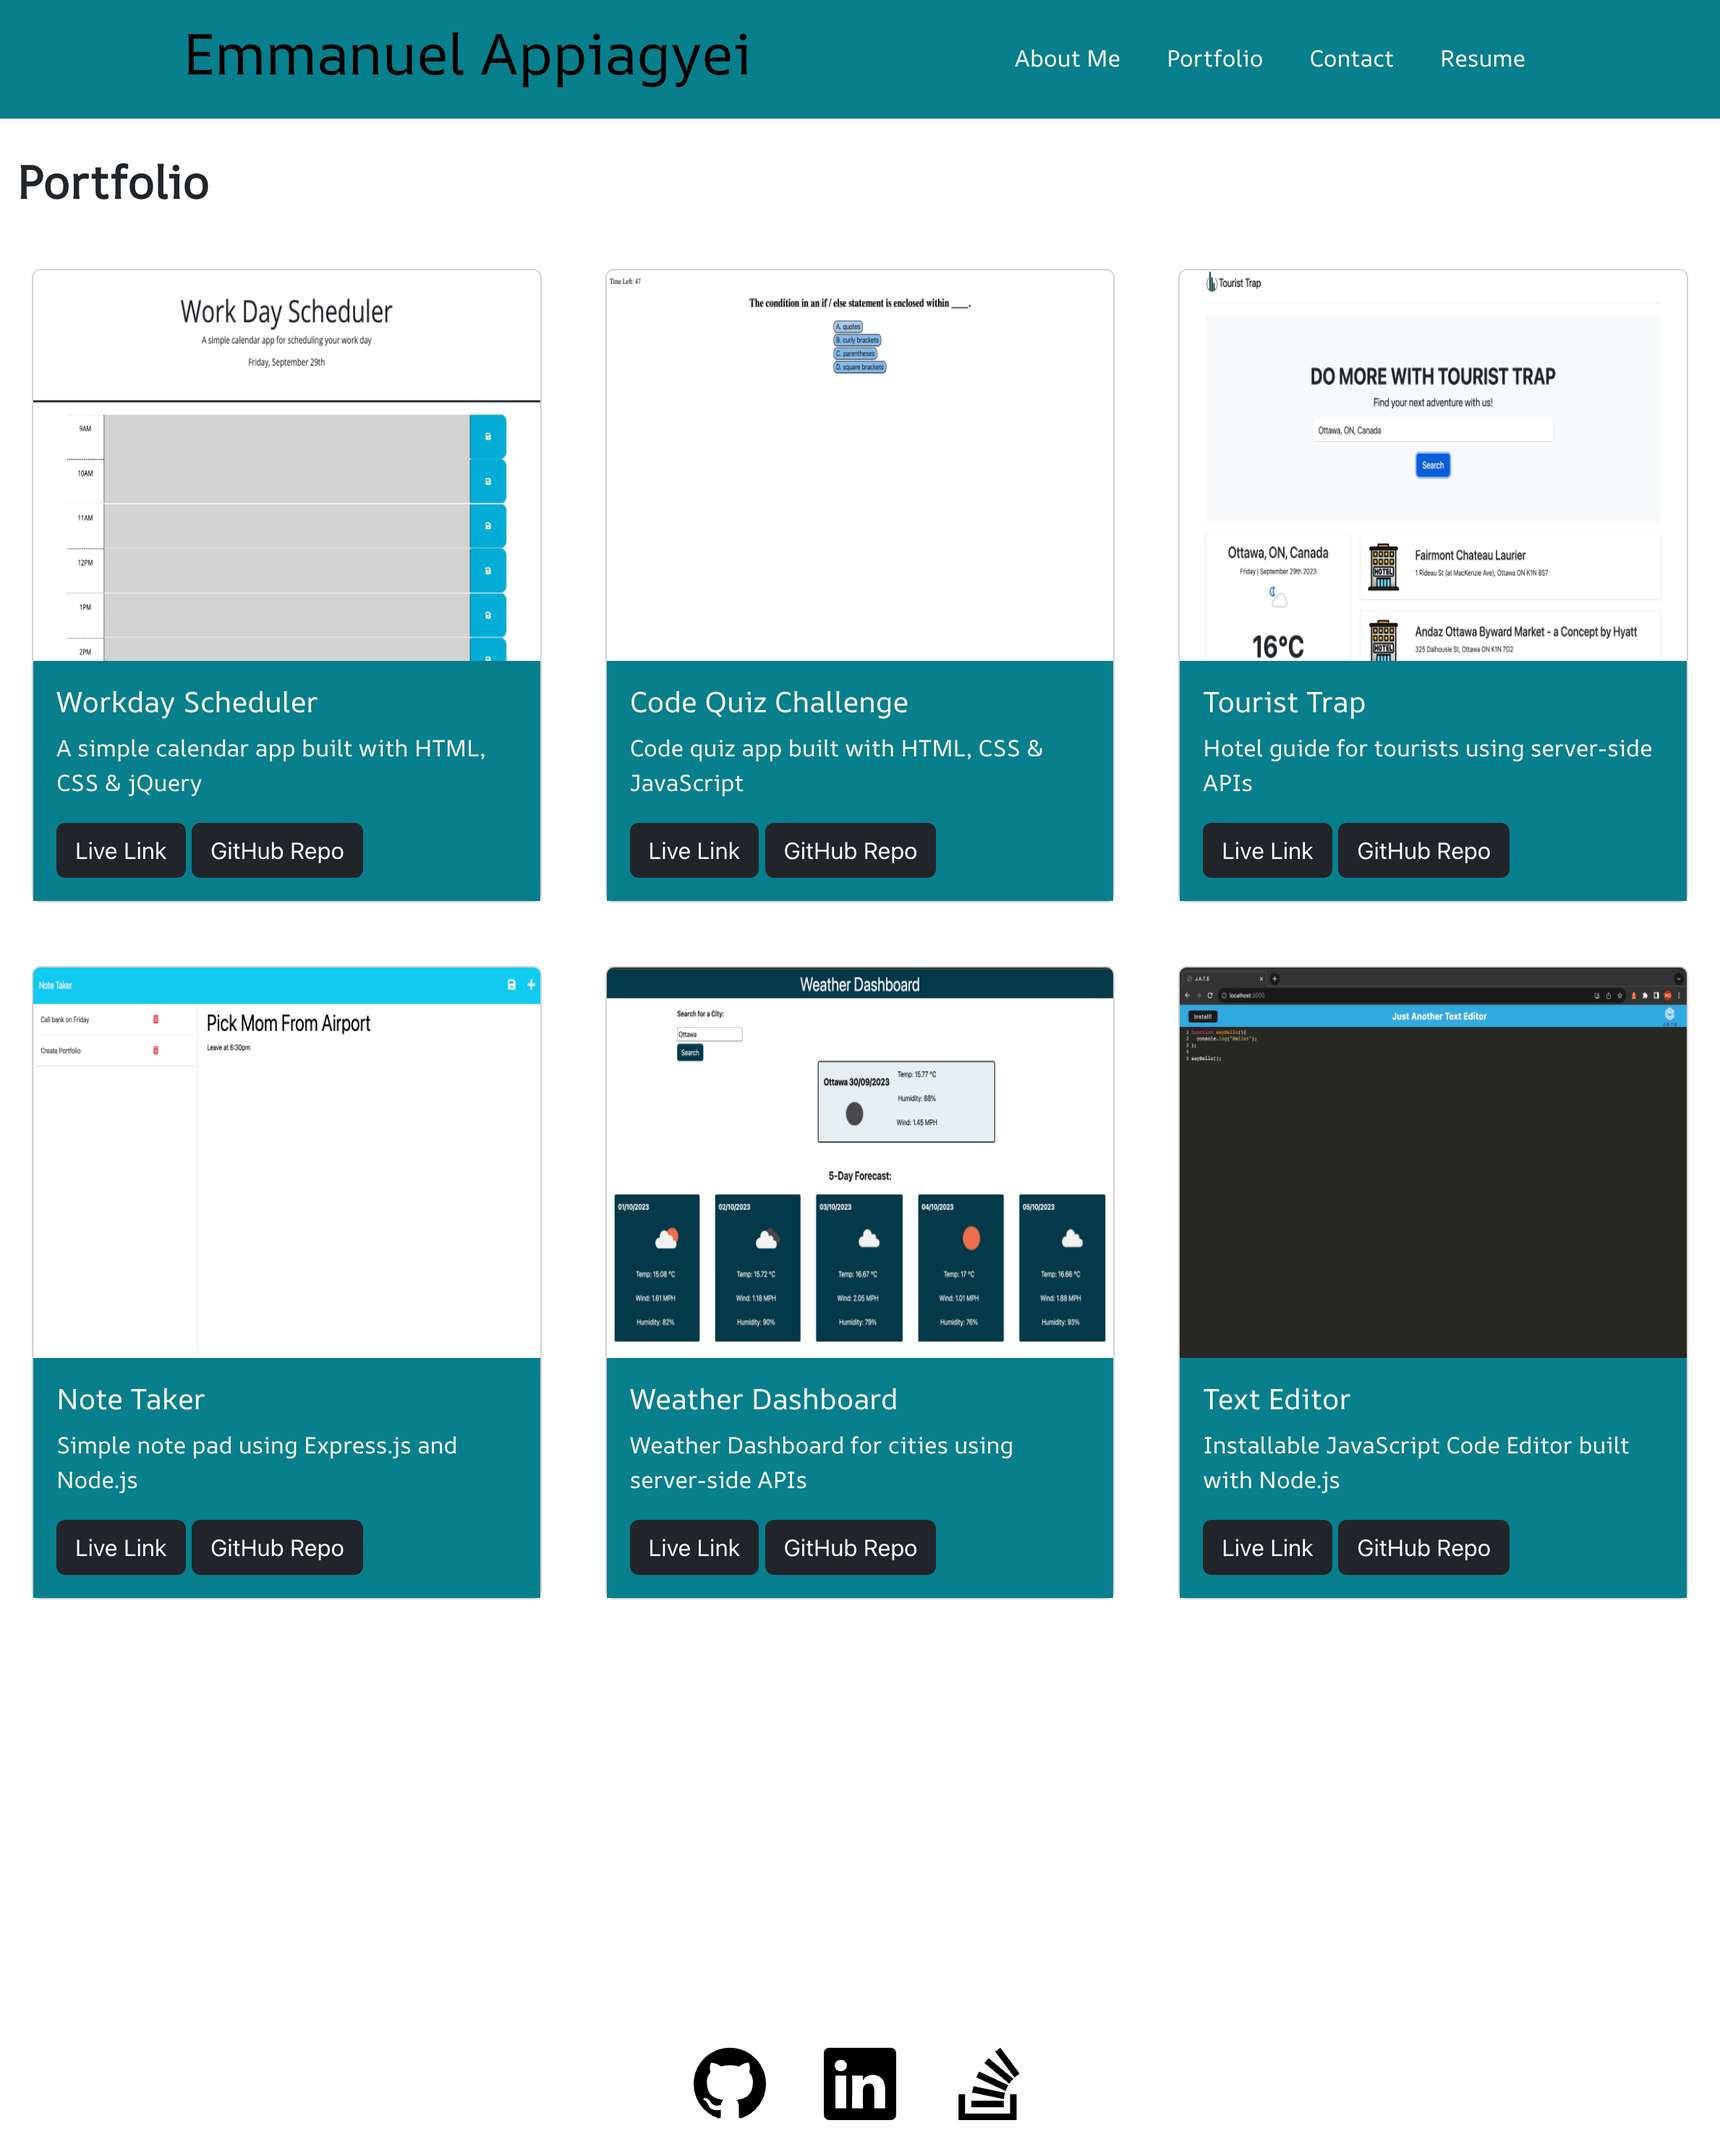
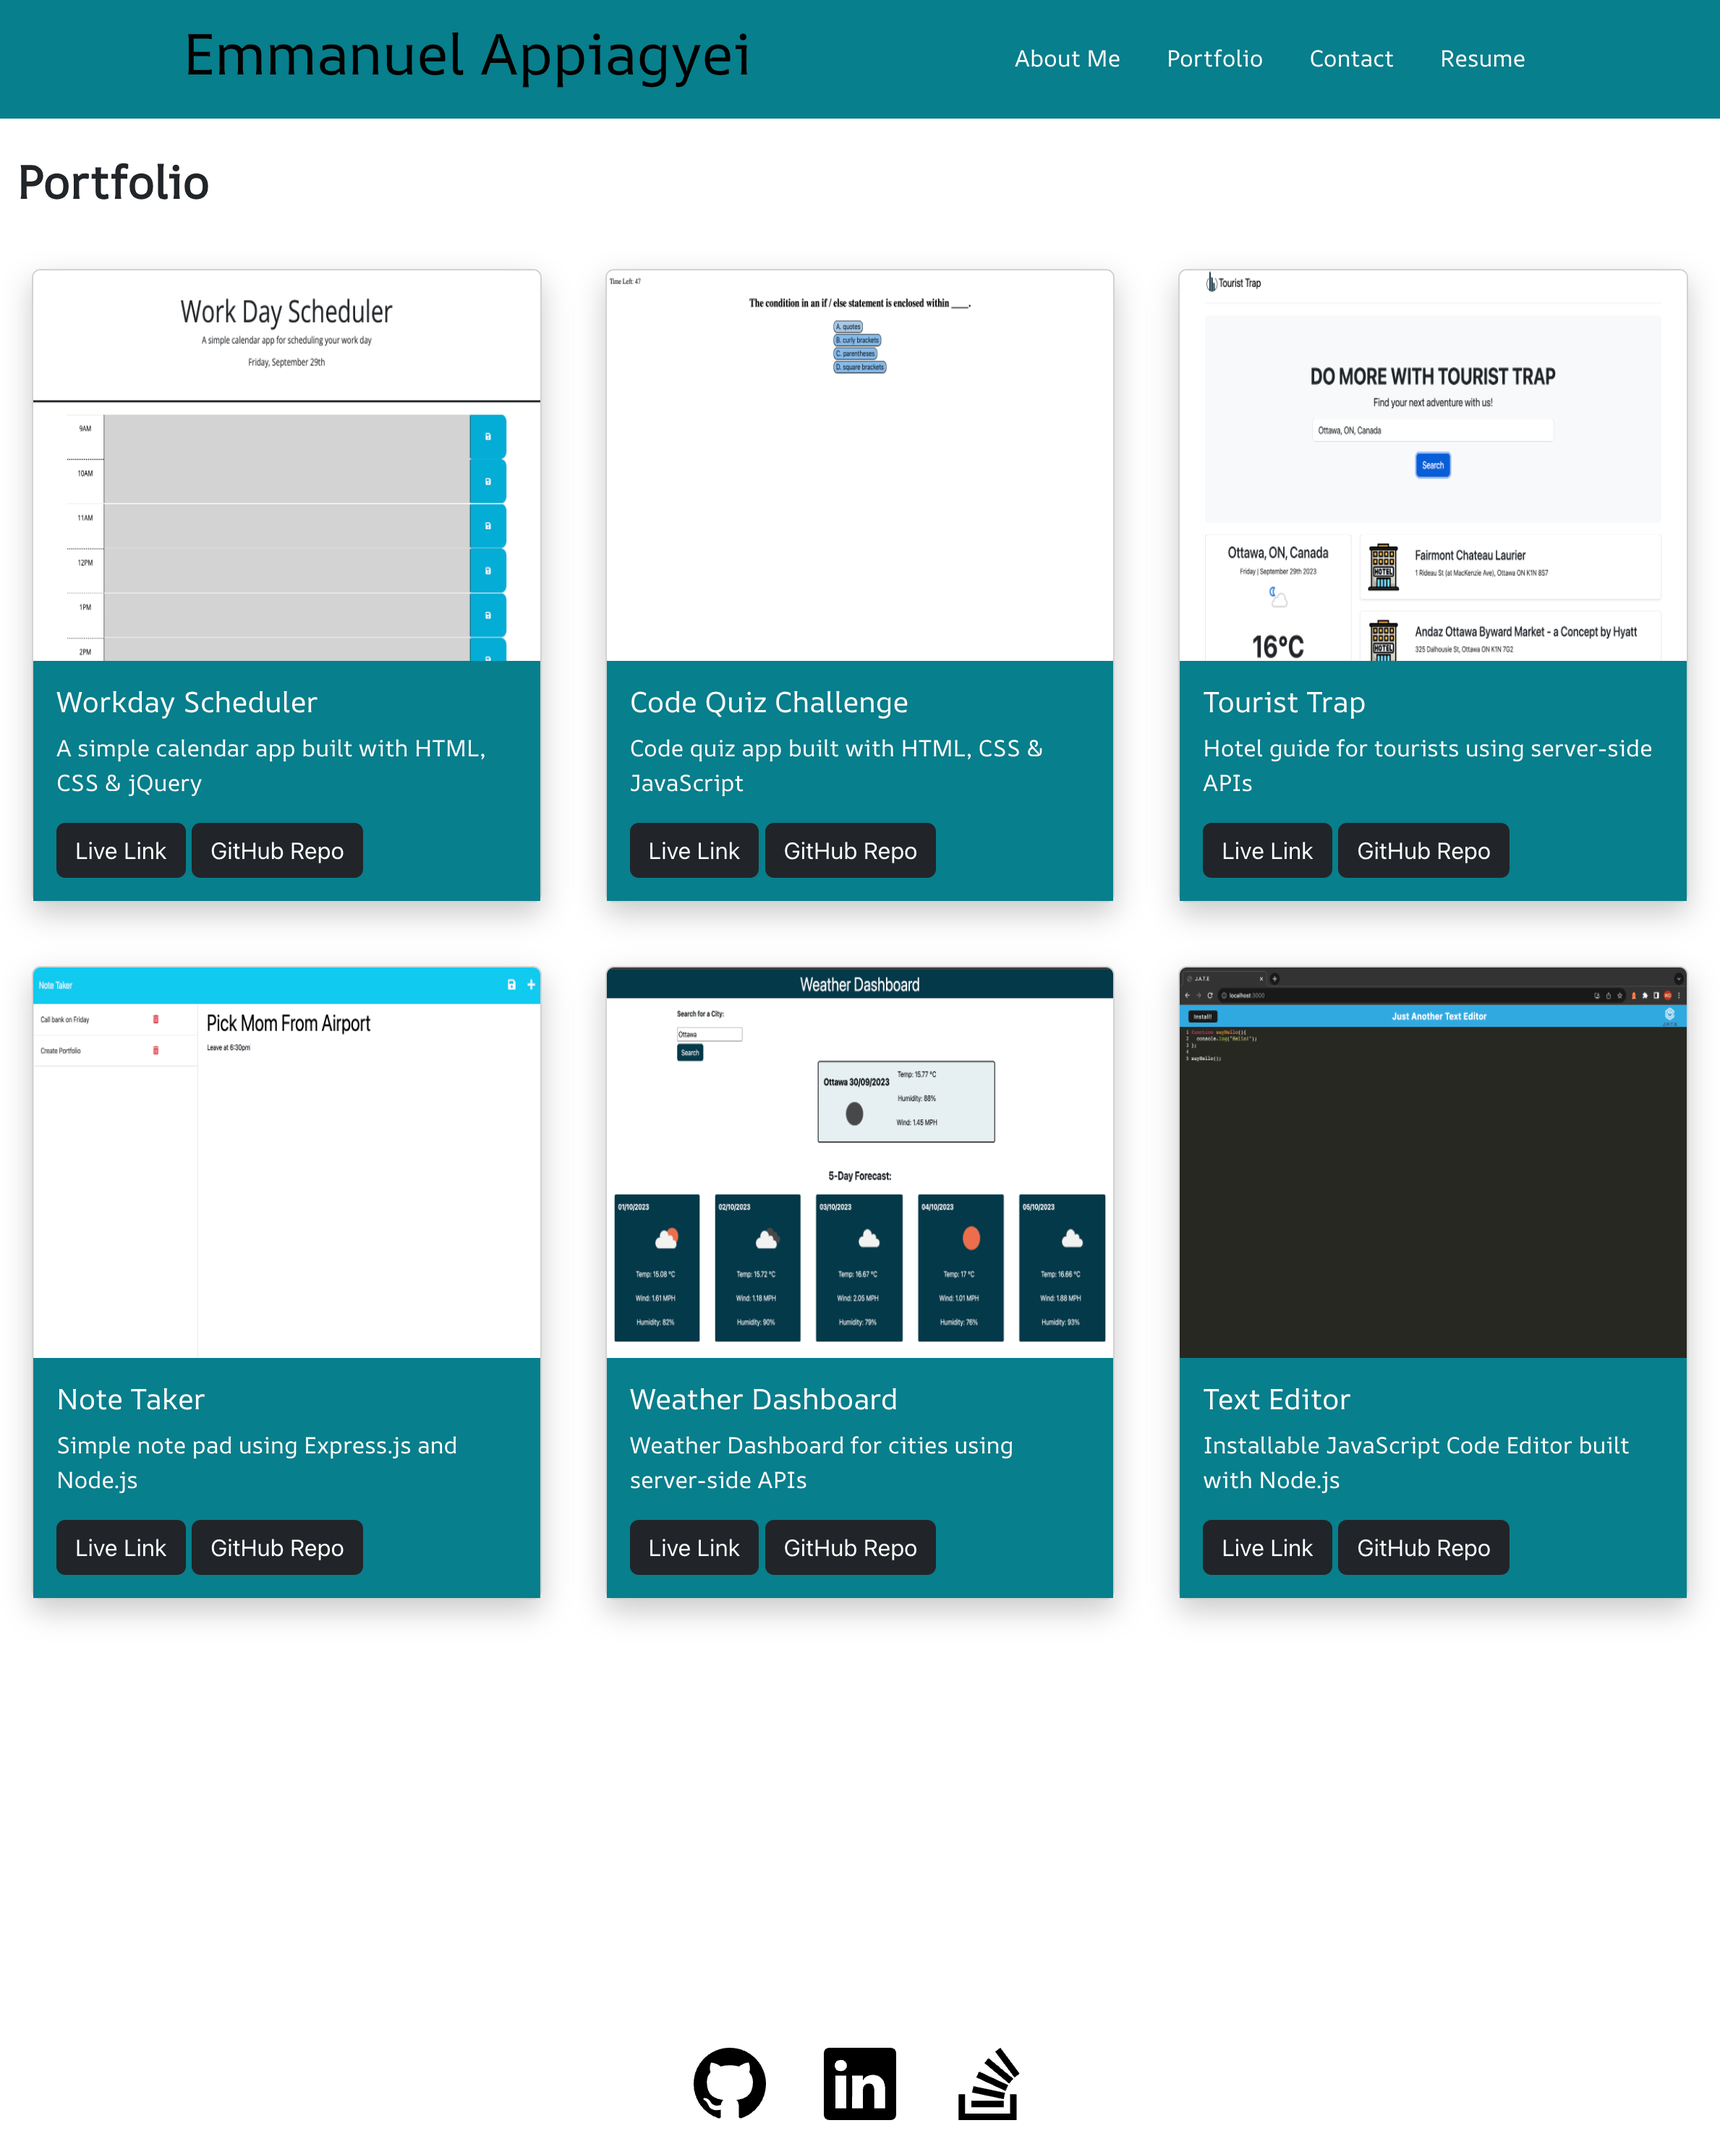
fixed resume download, changed project card style, updated project screenshot in readme

diff --git a/my-portfolio/src/components/Resume.jsx b/my-portfolio/src/components/Resume.jsx
@@ -1,5 +1,6 @@
 // Importing the Resume component's stylesheet
 import "../styles/Resume.css";
+import resume from "../assets/files/Appiagyei_resume.pdf"
 
 // Define a functional component called Resume
 function Resume() {
@@ -10,7 +11,7 @@ function Resume() {
         <h2 className="resume-title">Resume</h2>
         <p>
           Download my{" "}
-          <a className="text resume-link" href="Appiagyei_resume.pdf" download>
+          <a className="text resume-link" href={resume} download>
             resume
             <span className="download">
               <svg

diff --git a/my-portfolio/src/styles/Project.css b/my-portfolio/src/styles/Project.css
@@ -22,10 +22,13 @@ h2 {
 /* Styling for elements with class "img" */
 .img {
   margin: 10px !important;
-  transition: all 1s;
+  border:  solid #000000;
+ box-shadow: 0 0.5rem 1.2rem rgba(0,0,0,.2);
+ transition: all 0.3s;
+ ;
 }
 
 /* Styling for elements with class "img" on hover */
 .img:hover {
-  transform: scale(1.1);
+  transform: scale(1.08);
 }
